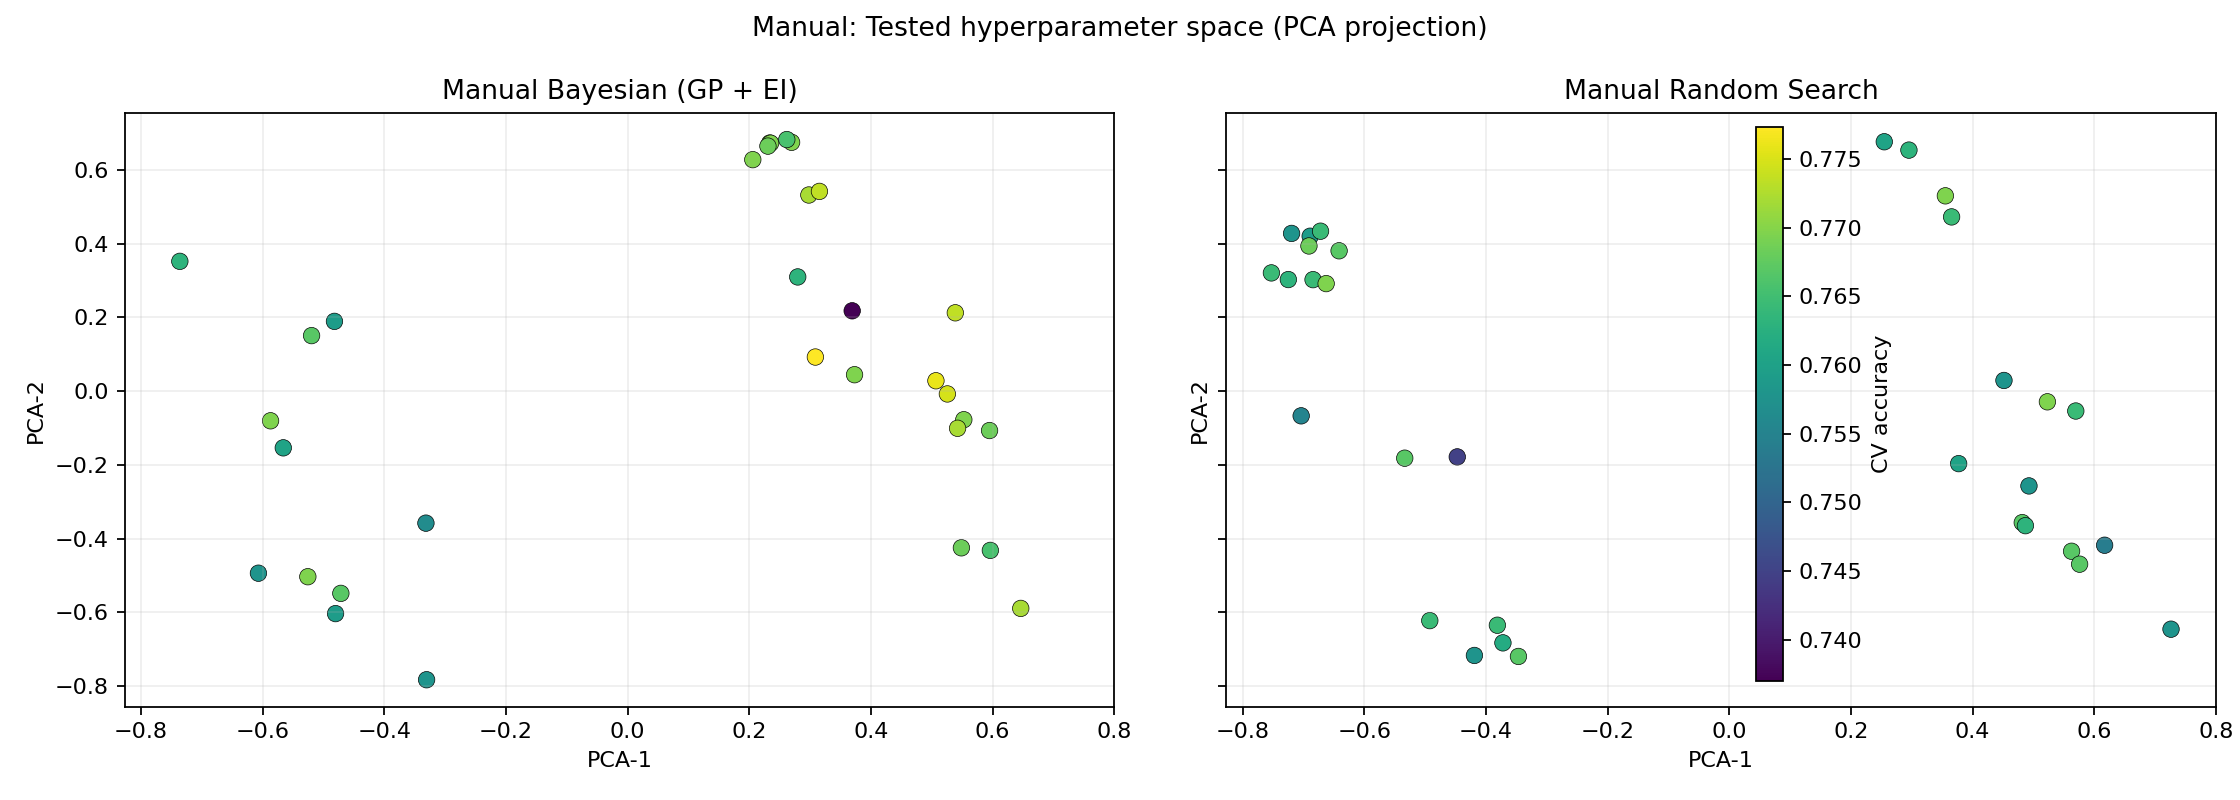
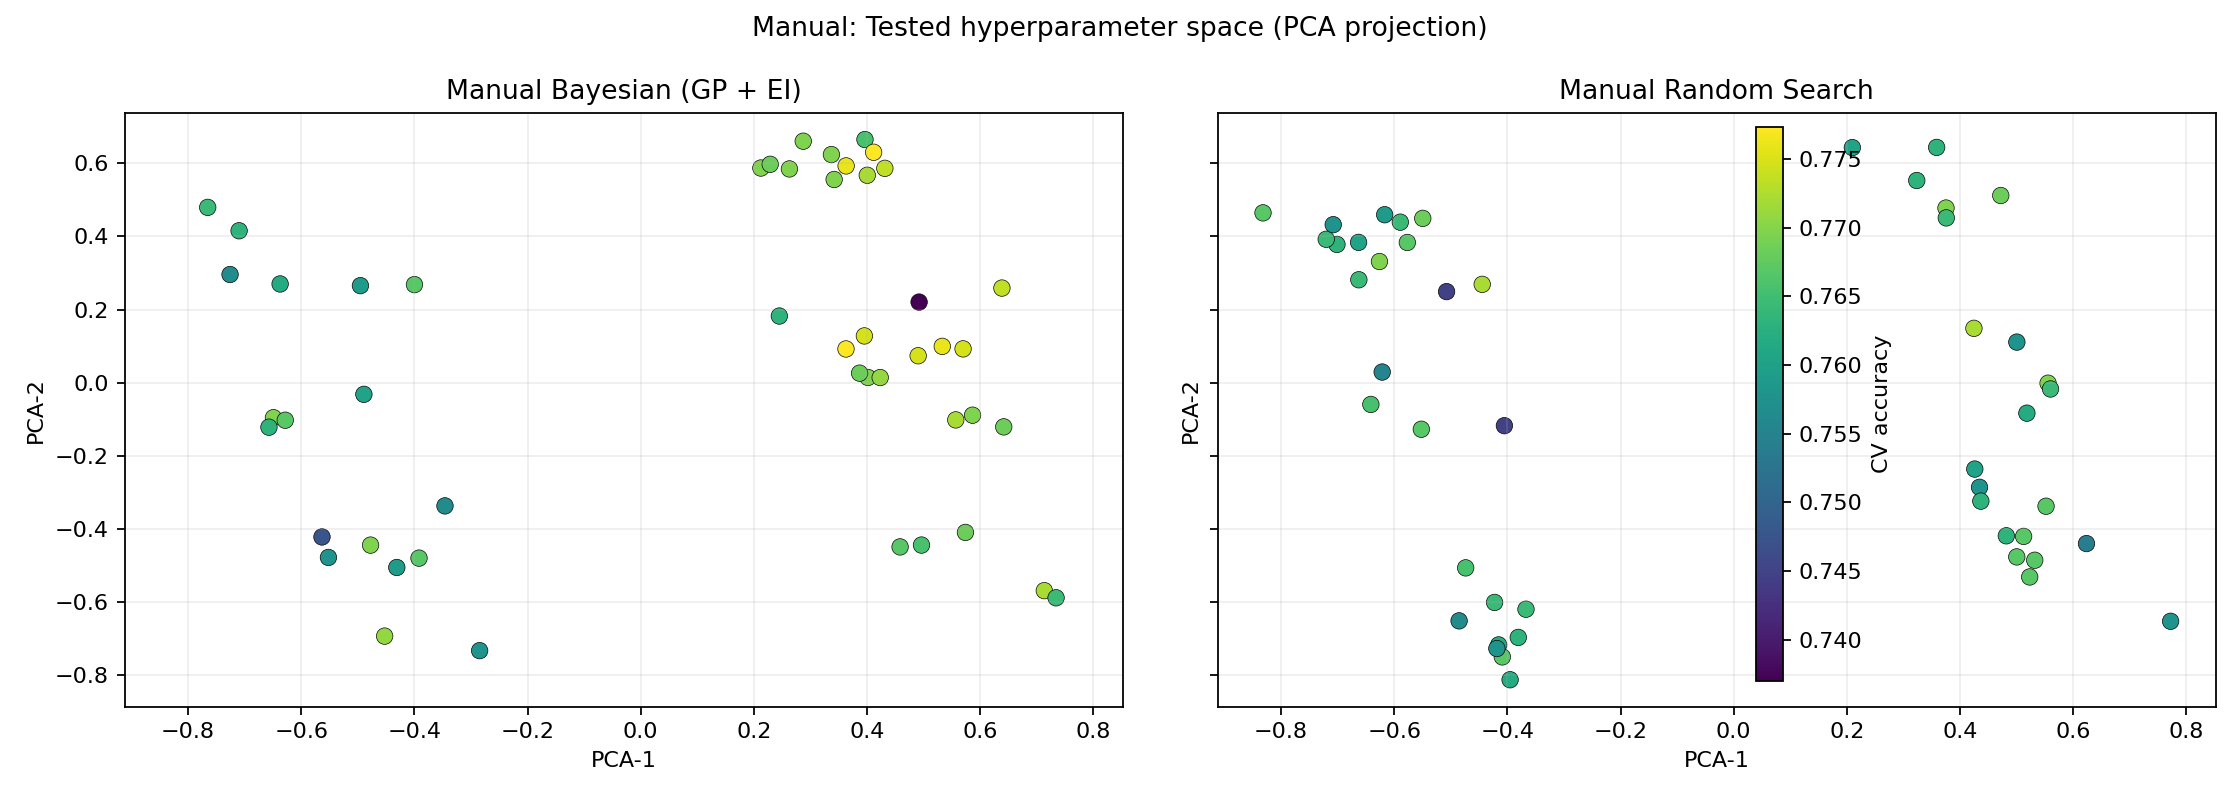
new plots, readme change

diff --git a/src/auto_lab1/plotting.py b/src/auto_lab1/plotting.py
@@ -124,3 +124,80 @@ def plot_importance(
     plt.close(fig)
     return pd.concat(all_importances, ignore_index=True)
 
+
+def _is_boolean_choices(spec: ParamSpec) -> bool:
+    return bool(spec.choices) and isinstance(spec.choices[0], bool)
+
+
+def _category_positions(spec: ParamSpec) -> dict[object, int]:
+    assert spec.choices is not None
+    return {value: idx for idx, value in enumerate(spec.choices)}
+
+
+def plot_parameter_sweeps(
+    df: pd.DataFrame,
+    space: list[ParamSpec],
+    out_dir: Path,
+    prefix: str,
+    title_prefix: str,
+) -> list[Path]:
+    out_dir.mkdir(parents=True, exist_ok=True)
+    methods = sorted(df["method"].unique())
+    saved_paths: list[Path] = []
+    rng = np.random.default_rng(42)
+
+    for spec in space:
+        fig, axes = plt.subplots(1, len(methods), figsize=(7 * len(methods), 4.8), sharey=True)
+        if len(methods) == 1:
+            axes = np.asarray([axes])
+
+        for ax, method in zip(axes, methods):
+            part = df[df["method"] == method].sort_values("step").copy()
+            y = part["score"].to_numpy()
+
+            if spec.kind == "cat":
+                pos = _category_positions(spec)
+                x = part[spec.name].map(pos).astype(float).to_numpy()
+                x_jittered = x + rng.uniform(-0.08, 0.08, size=len(x))
+                ax.scatter(
+                    x_jittered,
+                    y,
+                    c=part["step"],
+                    cmap="plasma",
+                    s=42,
+                    alpha=0.9,
+                    edgecolor="black",
+                    linewidths=0.2,
+                )
+                assert spec.choices is not None
+                tick_labels = [str(v) for v in spec.choices]
+                if _is_boolean_choices(spec):
+                    tick_labels = ["False", "True"]
+                ax.set_xticks(list(range(len(spec.choices))))
+                ax.set_xticklabels(tick_labels)
+            else:
+                x = part[spec.name].astype(float).to_numpy()
+                ax.scatter(
+                    x,
+                    y,
+                    c=part["step"],
+                    cmap="plasma",
+                    s=42,
+                    alpha=0.9,
+                    edgecolor="black",
+                    linewidths=0.2,
+                )
+
+            ax.set_title(LABELS.get(method, method))
+            ax.set_xlabel(spec.name)
+            ax.set_ylabel("CV accuracy")
+            ax.grid(alpha=0.25)
+
+        fig.suptitle(f"{title_prefix}: score vs {spec.name}")
+        fig.tight_layout()
+        out_path = out_dir / f"{prefix}_param_{spec.name}.png"
+        fig.savefig(out_path, dpi=160)
+        plt.close(fig)
+        saved_paths.append(out_path)
+
+    return saved_paths

diff --git a/src/auto_lab1/pipeline.py b/src/auto_lab1/pipeline.py
@@ -11,7 +11,12 @@ from .config import ExperimentConfig
 from .manual_search import run_manual_bayesian_optimization, run_random_search
 from .objective import load_data, make_cv
 from .optuna_search import run_optuna_search
-from .plotting import plot_best_vs_step, plot_importance, plot_space_projection
+from .plotting import (
+    plot_best_vs_step,
+    plot_importance,
+    plot_parameter_sweeps,
+    plot_space_projection,
+)
 from .reporting import add_best_so_far, save_markdown_table, summarize
 from .search_space import get_search_space
 
@@ -81,6 +86,13 @@ def run_experiment(config: ExperimentConfig) -> dict[str, Path]:
         "Manual: Hyperparameter importance",
     )
     manual_importance.to_csv(table_dir / "manual_importance.csv", index=False)
+    manual_param_paths = plot_parameter_sweeps(
+        manual_all,
+        space,
+        fig_dir / "manual_params",
+        "manual",
+        "Manual",
+    )
 
     optuna_random = run_optuna_search(
         sampler_name="random",
@@ -123,6 +135,13 @@ def run_experiment(config: ExperimentConfig) -> dict[str, Path]:
         "Optuna: Hyperparameter importance",
     )
     optuna_importance.to_csv(table_dir / "optuna_importance.csv", index=False)
+    optuna_param_paths = plot_parameter_sweeps(
+        optuna_all,
+        space,
+        fig_dir / "optuna_params",
+        "optuna",
+        "Optuna",
+    )
 
     report = {
         "dataset": f"openml:{dataset_meta['name']} (id={dataset_meta['data_id']})",
@@ -133,6 +152,8 @@ def run_experiment(config: ExperimentConfig) -> dict[str, Path]:
         "manual_summary": manual_summary.to_dict(orient="records"),
         "optuna_summary": optuna_summary.to_dict(orient="records"),
         "artifacts_dir": str(out_dir),
+        "manual_param_plots": [str(p) for p in manual_param_paths],
+        "optuna_param_plots": [str(p) for p in optuna_param_paths],
     }
     report_path = out_dir / "report.json"
     report_path.write_text(json.dumps(report, indent=2), encoding="utf-8")

diff --git a/run_auto_lab1.py b/run_auto_lab1.py
@@ -16,7 +16,7 @@ from auto_lab1.pipeline import run_experiment
 
 def parse_args() -> ExperimentConfig:
     parser = argparse.ArgumentParser(description="Manual and Optuna HPO comparison")
-    parser.add_argument("--n-trials", type=int, default=32, help="Trials per method")
+    parser.add_argument("--n-trials", type=int, default=48, help="Trials per method")
     parser.add_argument(
         "--n-init",
         type=int,

diff --git a/src/auto_lab1/config.py b/src/auto_lab1/config.py
@@ -6,7 +6,7 @@ from pathlib import Path
 
 @dataclass(frozen=True)
 class ExperimentConfig:
-    n_trials: int = 32
+    n_trials: int = 48
     n_init: int = 8
     n_candidates: int = 2000
     seed: int = 42

diff --git a/README.md b/README.md
@@ -1,10 +1,18 @@
 # Lab 1
 
+## Запуск
+
+```bash
+source .venv/bin/activate
+python auto_lab1/run_auto_lab1.py --n-trials 48 --n-init 8 --n-candidates 2000 --openml-data-id 37
+```
+
 ## Что выбрано
 
 - Алгоритм с учителем: `RandomForestClassifier`.
 - Датасет: OpenML `diabetes` (`data_id=37`).
 - Целевая функция: средняя `accuracy` на `4-fold CV`.
+- Количество точек на метод: `48` (в 1.5 раза больше, чем раньше `32`).
 - Оптимизируемые гиперпараметры (7 шт.):
   `n_estimators`, `max_depth`, `min_samples_split`, `min_samples_leaf`,
   `max_features`, `bootstrap`, `criterion`.
@@ -42,8 +50,8 @@
 
 | method | best_score | best_step | mean_score |
 | --- | --- | --- | --- |
-| manual_bo | 0.77734 | 26 | 0.76660 |
-| manual_random | 0.76953 | 16 | 0.76257 |
+| manual_bo | 0.77734 | 26 | 0.76676 |
+| manual_random | 0.77214 | 37 | 0.76294 |
 
 Итог: ручной BO лучше случайного поиска по лучшему найденному значению метрики.
 
@@ -51,8 +59,8 @@
 
 | method | best_score | best_step | mean_score |
 | --- | --- | --- | --- |
-| optuna_tpe | 0.78776 | 17 | 0.77047 |
-| optuna_random | 0.78516 | 9 | 0.76497 |
+| optuna_tpe | 0.78776 | 17 | 0.76953 |
+| optuna_random | 0.78516 | 9 | 0.76389 |
 
 Итог: `Optuna TPE` тоже лучше `Optuna Random`.
 
@@ -82,7 +90,27 @@
 
 ![optuna importance](outputs/figures/optuna_importance.png)
 
+### Графики по каждому гиперпараметру (Manual)
+
+- `n_estimators`: ![manual n_estimators](outputs/figures/manual_params/manual_param_n_estimators.png)
+- `max_depth`: ![manual max_depth](outputs/figures/manual_params/manual_param_max_depth.png)
+- `min_samples_split`: ![manual min_samples_split](outputs/figures/manual_params/manual_param_min_samples_split.png)
+- `min_samples_leaf`: ![manual min_samples_leaf](outputs/figures/manual_params/manual_param_min_samples_leaf.png)
+- `max_features`: ![manual max_features](outputs/figures/manual_params/manual_param_max_features.png)
+- `bootstrap`: ![manual bootstrap](outputs/figures/manual_params/manual_param_bootstrap.png)
+- `criterion`: ![manual criterion](outputs/figures/manual_params/manual_param_criterion.png)
+
+### Графики по каждому гиперпараметру (Optuna)
+
+- `n_estimators`: ![optuna n_estimators](outputs/figures/optuna_params/optuna_param_n_estimators.png)
+- `max_depth`: ![optuna max_depth](outputs/figures/optuna_params/optuna_param_max_depth.png)
+- `min_samples_split`: ![optuna min_samples_split](outputs/figures/optuna_params/optuna_param_min_samples_split.png)
+- `min_samples_leaf`: ![optuna min_samples_leaf](outputs/figures/optuna_params/optuna_param_min_samples_leaf.png)
+- `max_features`: ![optuna max_features](outputs/figures/optuna_params/optuna_param_max_features.png)
+- `bootstrap`: ![optuna bootstrap](outputs/figures/optuna_params/optuna_param_bootstrap.png)
+- `criterion`: ![optuna criterion](outputs/figures/optuna_params/optuna_param_criterion.png)
+
 ## Краткий вывод
 
 - В обоих сценариях (ручной и Optuna) байесовский подход дал лучший итог, чем random search.
-- На OpenML `diabetes` чаще всего важны: `max_depth`, `min_samples_leaf`, `max_features`, иногда `bootstrap`.
+- На OpenML `diabetes` чаще всего важны: `min_samples_leaf`, `max_depth`, `max_features`.

diff --git a/outputs/tables/manual_summary.md b/outputs/tables/manual_summary.md
@@ -1,4 +1,4 @@
 | method | best_score | best_step | mean_score |
 | --- | --- | --- | --- |
-| manual_bo | 0.77734 | 26 | 0.76660 |
-| manual_random | 0.76953 | 16 | 0.76257 |
+| manual_bo | 0.77734 | 26 | 0.76676 |
+| manual_random | 0.77214 | 37 | 0.76294 |

diff --git a/outputs/tables/optuna_summary.md b/outputs/tables/optuna_summary.md
@@ -1,4 +1,4 @@
 | method | best_score | best_step | mean_score |
 | --- | --- | --- | --- |
-| optuna_tpe | 0.78776 | 17 | 0.77047 |
-| optuna_random | 0.78516 | 9 | 0.76497 |
+| optuna_tpe | 0.78776 | 17 | 0.76953 |
+| optuna_random | 0.78516 | 9 | 0.76389 |
